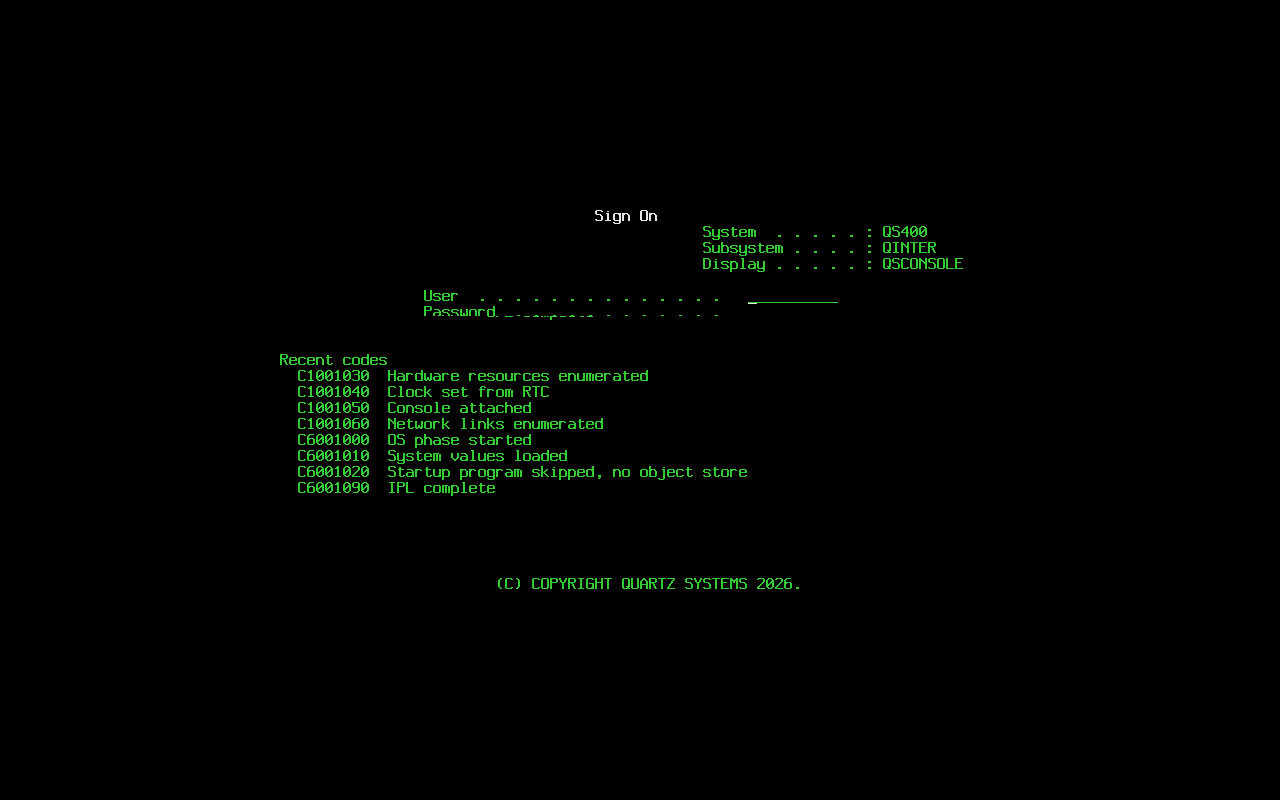
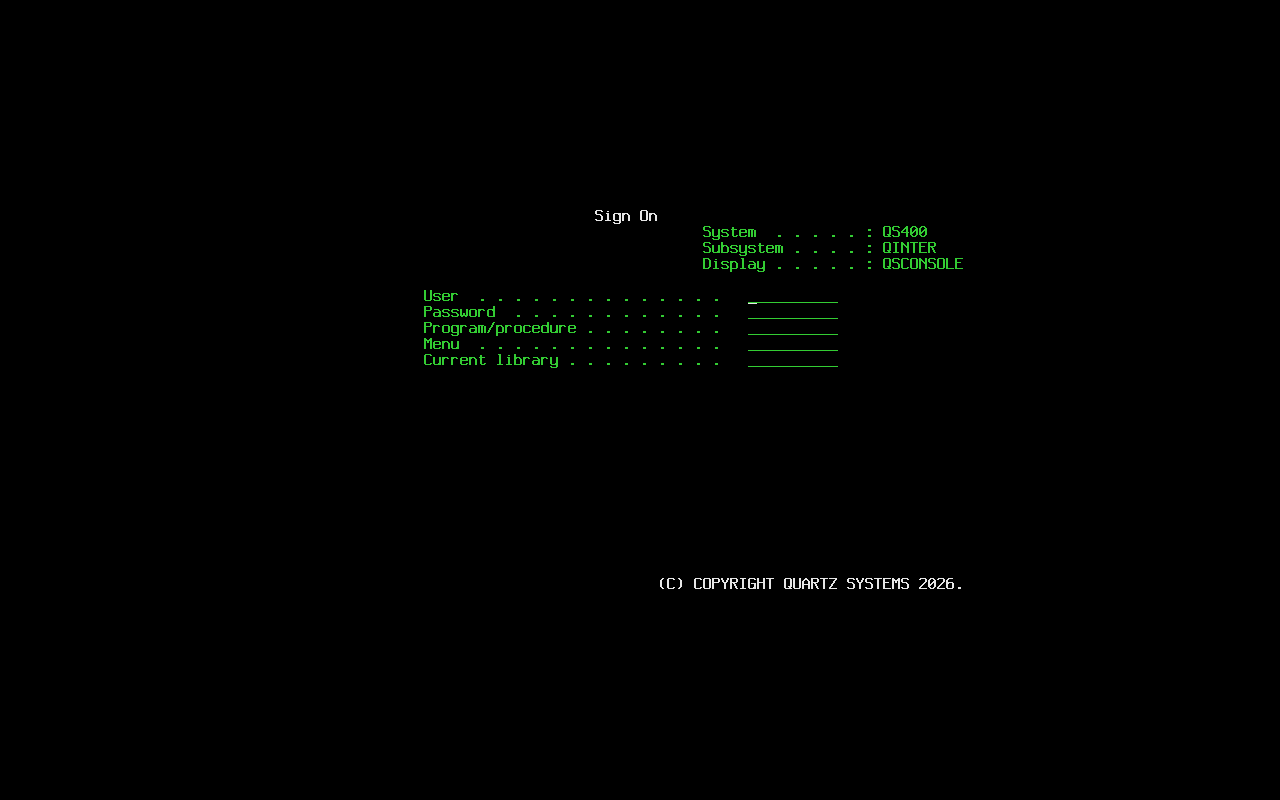
console: left-aligned notice on the IPL menu; white copyright at the right of sign-on

Changed region(s): [[0.2188, 0.4062, 0.4688, 0.625], [0.4062, 0.7188, 0.75, 0.75], [0.5, 0.5625, 0.5312, 0.5938]]

diff --git a/console/src/screens.rs b/console/src/screens.rs
@@ -7,10 +7,10 @@
 
 use crate::screen::{Attr, Screen};
 
-/// Bottom line on every screen.
+/// Bottom line of the SRC and sign-on displays, white, at the right.
 pub const COPYRIGHT: &str = "(C) COPYRIGHT QUARTZ SYSTEMS 2026.";
-/// Column of the copyright line.
-pub const COPYRIGHT_COL: usize = 25;
+/// Column of the copyright line: it ends at column 76.
+pub const COPYRIGHT_COL: usize = 43;
 /// Row of the message line.
 pub const MESSAGE_ROW: usize = 23;
 
@@ -28,17 +28,19 @@ pub fn src_screen(system: &str, current: &str, text: &str, recent: &[(String, St
     for (i, (code, t)) in recent[start..].iter().enumerate() {
         s.put(11 + i, 3, &format!("{code}  {t}"), Attr::GREEN);
     }
-    s.put(24, COPYRIGHT_COL, COPYRIGHT, Attr::GREEN);
+    s.put(24, COPYRIGHT_COL, COPYRIGHT, Attr::WHITE);
     s
 }
 
-/// The manual-mode IPL menu.
+/// The manual-mode IPL menu. Geometry follows the classic attended IPL
+/// display: title centered, options indented, the notice block left
+/// aligned above the bottom of the screen.
 pub fn ipl_menu(system: &str) -> Screen {
     let mut s = Screen::new();
-    s.put(1, 28, "IPL or Install the System", Attr::WHITE);
-    s.put(2, 48, "System  . . . . . :", Attr::GREEN);
-    s.put(2, 68, system, Attr::GREEN);
-    s.put(3, 1, "Select one of the following:", Attr::GREEN);
+    s.put(2, 28, "IPL or Install the System", Attr::WHITE);
+    s.put(3, 48, "System  . . . . . :", Attr::GREEN);
+    s.put(3, 68, system, Attr::GREEN);
+    s.put(4, 8, "Select one of the following:", Attr::GREEN);
     for (i, line) in [
         "1. Perform an IPL",
         "2. Install the operating system",
@@ -49,14 +51,23 @@ pub fn ipl_menu(system: &str) -> Screen {
     .iter()
     .enumerate()
     {
-        s.put(5 + i, 6, line, Attr::GREEN);
+        s.put(6 + i, 13, line, Attr::GREEN);
     }
-    s.put(20, 1, "Selection", Attr::GREEN);
-    s.field(21, 7, 2, false);
-    s.put(24, COPYRIGHT_COL, COPYRIGHT, Attr::GREEN);
-    s.cursor = (20, 6);
+    s.put(18, 8, "Selection", Attr::GREEN);
+    s.field(19, 11, 2, false);
+    for (i, line) in NOTICE.iter().enumerate() {
+        s.put(21 + i, 8, line, Attr::WHITE);
+    }
+    s.cursor = (18, 10);
     s
 }
+
+/// The licensed internal code notice on the IPL menu. Quartz wording.
+pub const NOTICE: [&str; 3] = [
+    "Licensed Internal Code - Quartz Systems QS/400.",
+    "(C) Copyright Quartz Systems 2026. Some rights reserved.",
+    "Licensed under the MIT license; see LICENSE on the installation media.",
+];
 
 /// The sign-on display. Geometry follows the classic layout; the words are
 /// Quartz's.
@@ -79,7 +90,7 @@ pub fn sign_on(system: &str, subsystem: &str, display: &str) -> Screen {
     s.field(9, 53, 10, false);
     s.put(10, 17, "Current library . . . . . . . . .", Attr::GREEN);
     s.field(10, 53, 10, false);
-    s.put(24, COPYRIGHT_COL, COPYRIGHT, Attr::GREEN);
+    s.put(24, COPYRIGHT_COL, COPYRIGHT, Attr::WHITE);
     s.cursor = (5, 52);
     s
 }
@@ -124,7 +135,7 @@ mod tests {
         at(4, 68, "QSCONSOLE");
         at(6, 17, "User  . . . . . . . . . . . . . .");
         at(10, 17, "Current library . . . . . . . . .");
-        at(24, 25, COPYRIGHT);
+        at(24, 43, COPYRIGHT);
         assert_eq!(s.fields.len(), 5);
         assert!(s.fields[1].nondisplay);
         assert!(s.fields.iter().all(|f| f.col == 53 && f.len == 10));
